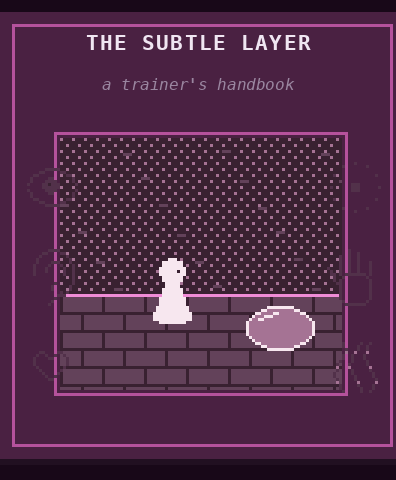
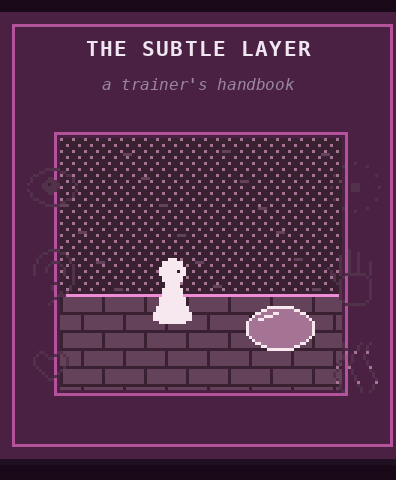
Wiki: THE SUBTLE LAYER's cover title set a little lower, off the border (the user, 2026-10-19), as the app and the Tab5 now set it

Changed region(s): [[0.3636, 0.0625, 0.5758, 0.125], [0.6061, 0.0625, 0.7879, 0.125], [0.2121, 0.0625, 0.3333, 0.125]]

diff --git a/wiki/covers.py b/wiki/covers.py
@@ -57,7 +57,7 @@ def guide():
 def subtle():
     s = json.load(open(os.path.join(DATA, "subtle.json")))
     im = book("subtle_cover.png"); d = ImageDraw.Draw(im); w = im.width
-    spaced(d, s["title"], font(21), 30, w, "#f0e6f2", 1.5)
+    spaced(d, s["title"], font(21), 36, w, "#f0e6f2", 1.5)       # a little below the border (the user, 2026-10-19)
     spaced(d, s.get("subtitle", ""), font(16, 2), 75, w, "#9a86a0", 0)
     return im
 

diff --git a/qa/screenshots/2026-10-19/README.md b/qa/screenshots/2026-10-19/README.md
@@ -13,3 +13,9 @@ C-159: the T-Watch S3's own SOUND, switched off as the board reports it (INTERAC
 The GUIDE cover on the wiki: the author's name moved lower, clear of the art
 
 ![19Oct2026 - the wiki GUIDE cover, author lower - 2](19Oct2026%20-%20the%20wiki%20GUIDE%20cover%2C%20author%20lower%20-%202.png)
+
+### 19Oct2026 - the wiki SUBTLE LAYER cover, title lower - 3
+
+THE SUBTLE LAYER's cover on the wiki: the title a little lower, off the border
+
+![19Oct2026 - the wiki SUBTLE LAYER cover, title lower - 3](19Oct2026%20-%20the%20wiki%20SUBTLE%20LAYER%20cover%2C%20title%20lower%20-%203.png)
